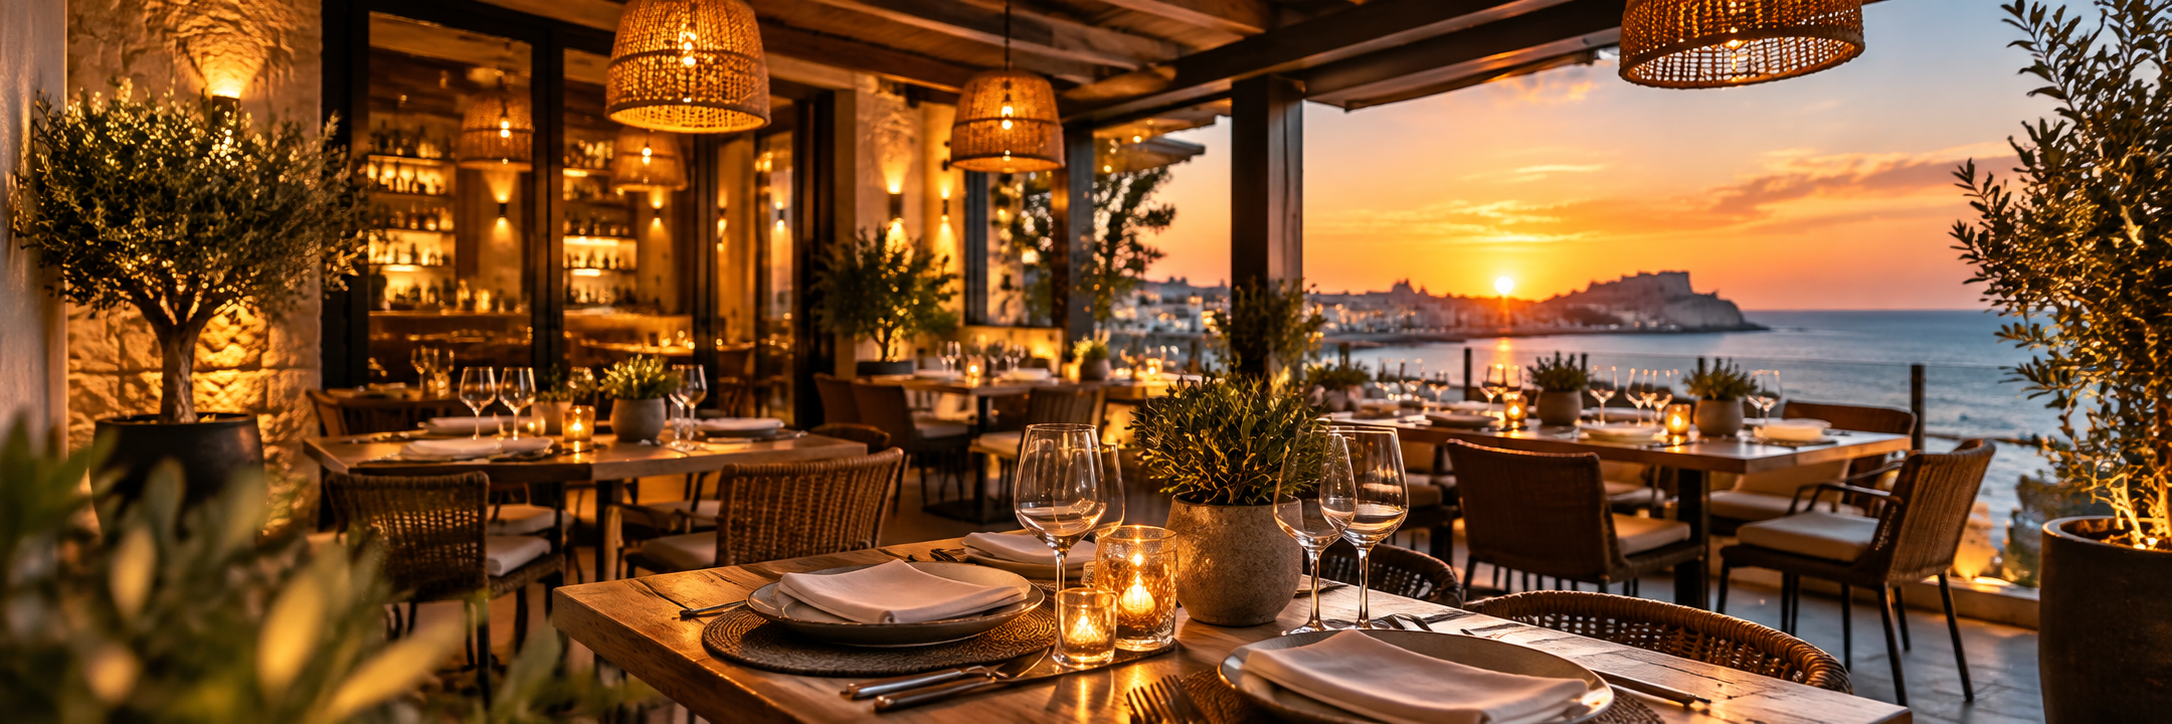
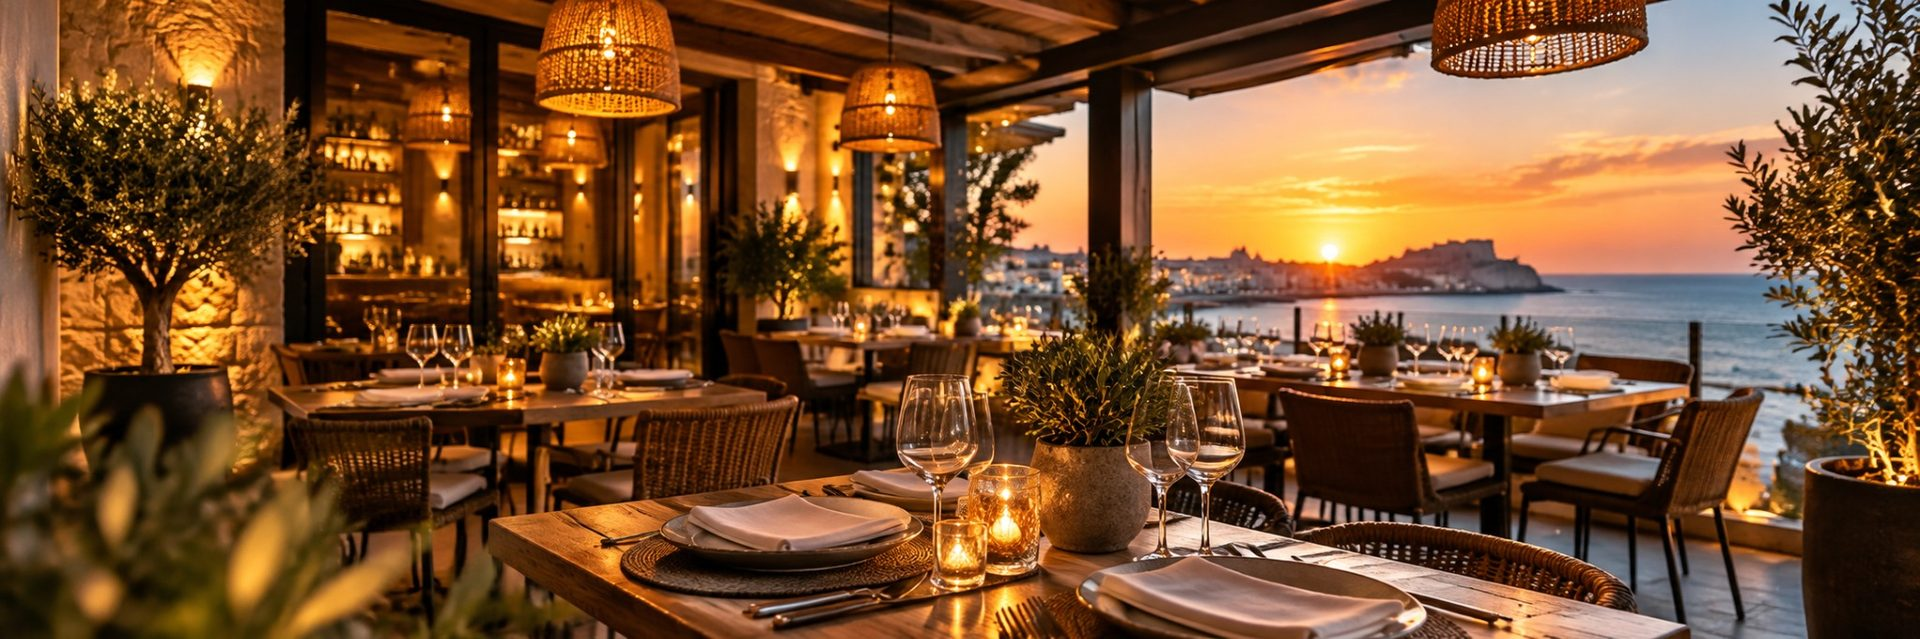
Add files via upload

diff --git a/js/script.js b/js/script.js
@@ -7,7 +7,7 @@ document.addEventListener("DOMContentLoaded", function () {
     /*
         IMPORTANTE:
 
-        Sustituye 34TU_NUMERO por el número
+        Sustituye el número de abajo por el número
         del restaurante.
 
         Ejemplo:
@@ -327,6 +327,75 @@ Personas: ${personas}
             function (elemento) {
 
                 observer.observe(elemento);
+
+            }
+        );
+
+    }
+
+
+    /* ========================================
+       BOTÓN VOLVER ARRIBA
+    ======================================== */
+
+    const volverArriba =
+        document.getElementById("volver-arriba");
+
+
+    if (volverArriba) {
+
+        /*
+            Mostramos la flecha cuando el usuario
+            ha bajado más de 450 píxeles.
+        */
+
+        function actualizarBotonVolverArriba() {
+
+            if (window.scrollY > 450) {
+
+                volverArriba.classList.add("visible");
+
+            } else {
+
+                volverArriba.classList.remove("visible");
+
+            }
+
+        }
+
+
+        /*
+            Detectamos el desplazamiento
+            por la página.
+        */
+
+        window.addEventListener(
+            "scroll",
+            actualizarBotonVolverArriba,
+            { passive: true }
+        );
+
+
+        /*
+            Comprobamos la posición inicial.
+        */
+
+        actualizarBotonVolverArriba();
+
+
+        /*
+            Al pulsar la flecha volvemos
+            suavemente al principio.
+        */
+
+        volverArriba.addEventListener(
+            "click",
+            function () {
+
+                window.scrollTo({
+                    top: 0,
+                    behavior: "smooth"
+                });
 
             }
         );

diff --git a/css/style.css b/css/style.css
@@ -623,6 +623,52 @@ header {
 
 
 /* ==================================================
+   VOLVER ARRIBA
+================================================== */
+
+.volver-arriba {
+    position: fixed;
+    right: 25px;
+    bottom: 90px;
+    width: 48px;
+    height: 48px;
+    border: 2px solid #d6ad60;
+    border-radius: 50%;
+    background: #26352a;
+    color: #d6ad60;
+    font-size: 1.6rem;
+    font-weight: bold;
+    line-height: 1;
+    cursor: pointer;
+    z-index: 900;
+    display: flex;
+    align-items: center;
+    justify-content: center;
+    opacity: 0;
+    visibility: hidden;
+    transform: translateY(12px);
+    transition: opacity 0.3s ease, visibility 0.3s ease,
+                transform 0.3s ease, background 0.3s ease;
+}
+
+.volver-arriba.visible {
+    opacity: 1;
+    visibility: visible;
+    transform: translateY(0);
+}
+
+.volver-arriba:hover {
+    background: #151f18;
+    transform: translateY(-3px);
+}
+
+.volver-arriba:focus-visible {
+    outline: 3px solid #d6ad60;
+    outline-offset: 3px;
+}
+
+
+/* ==================================================
    FOOTER
 ================================================== */
 
@@ -842,6 +888,14 @@ footer {
         bottom: 15px;
 
         padding: 12px 16px;
+    }
+
+    .volver-arriba {
+        right: 15px;
+        bottom: 78px;
+        width: 44px;
+        height: 44px;
+        font-size: 1.4rem;
     }
 
 }

diff --git a/index.html b/index.html
@@ -535,6 +535,20 @@
 
 
     <!-- =========================
+         VOLVER ARRIBA
+    ========================== -->
+
+    <button
+        type="button"
+        class="volver-arriba"
+        id="volver-arriba"
+        aria-label="Volver al principio de la página"
+        title="Volver arriba">
+        ↑
+    </button>
+
+
+    <!-- =========================
          FOOTER
     ========================== -->
 
